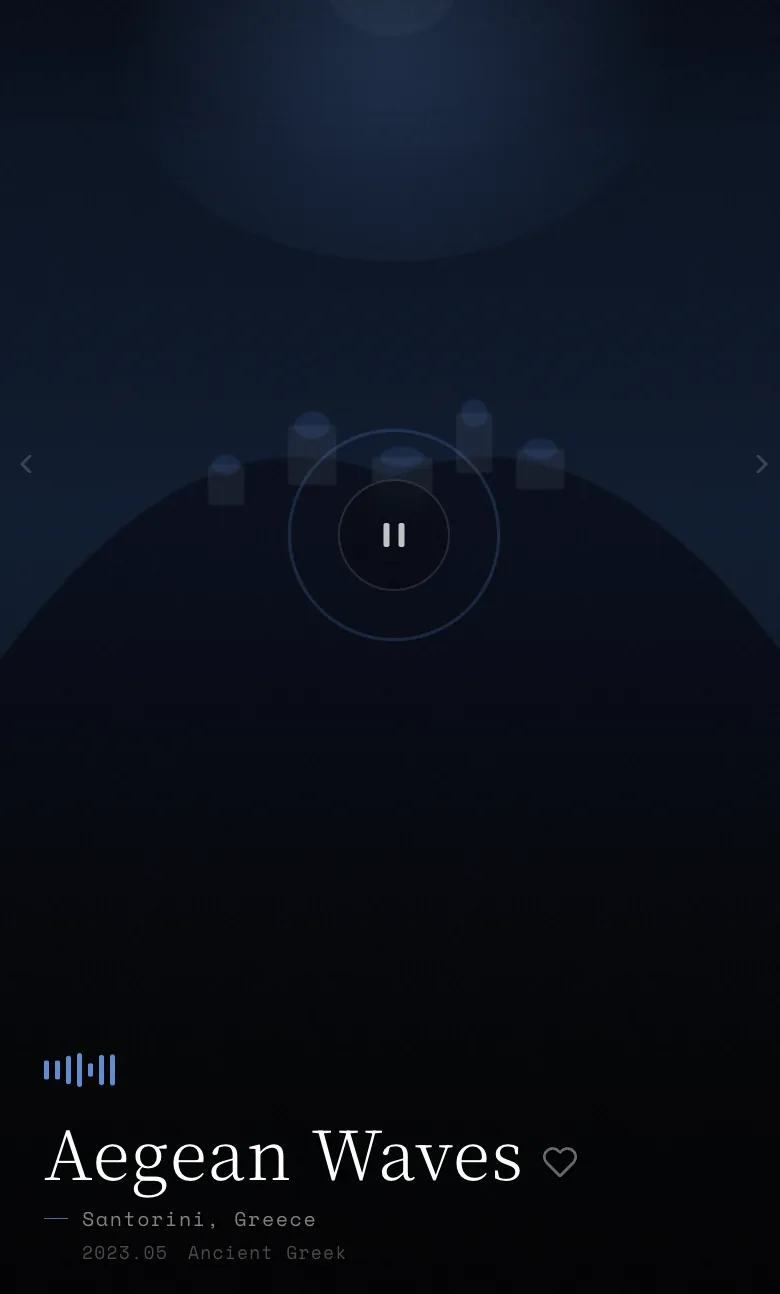
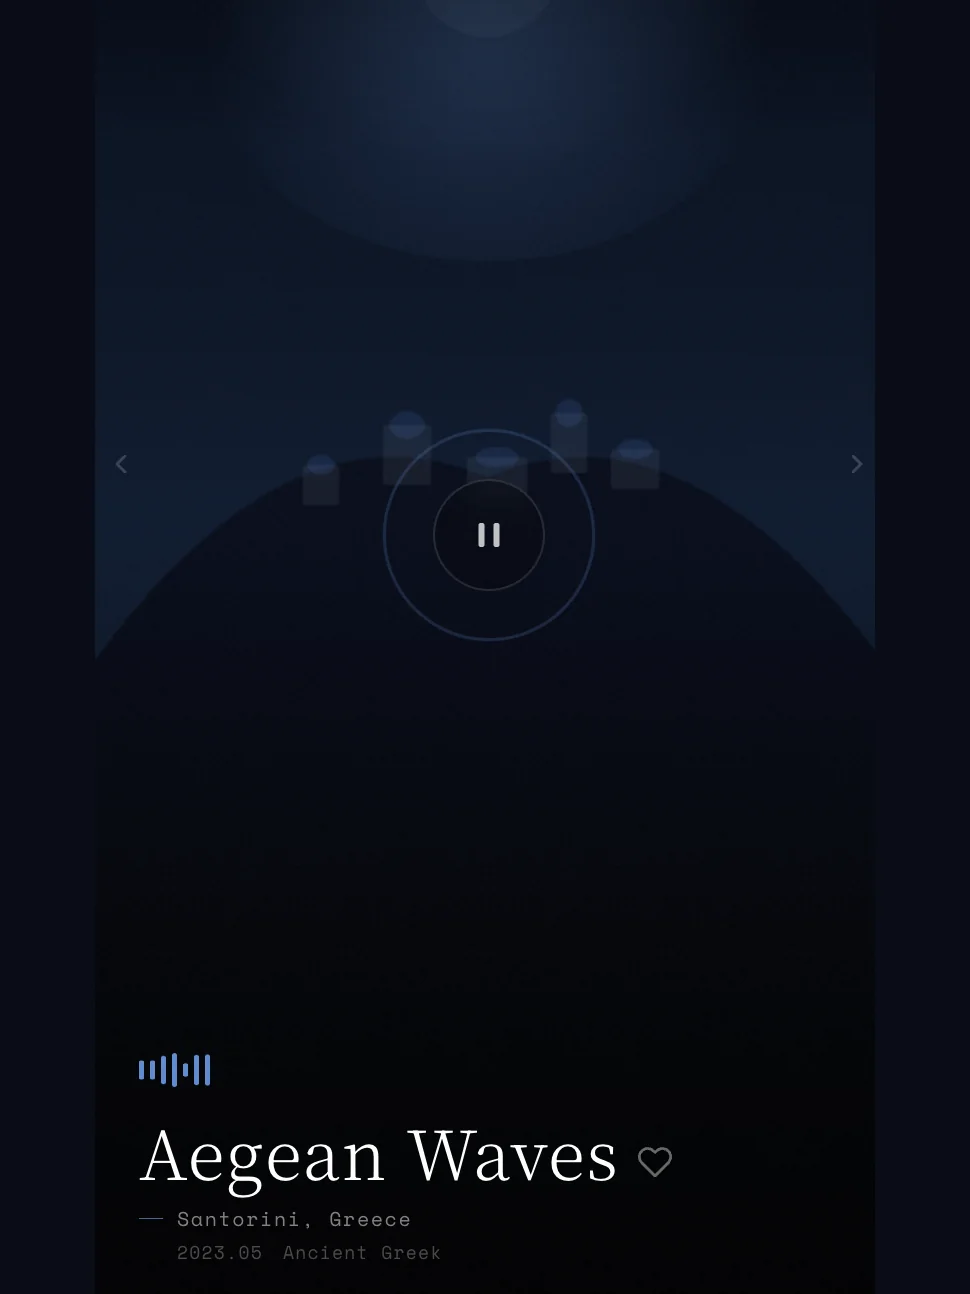
Update portfolio: Xiaomi case study, book pages, new assets

diff --git a/BooksKeep.html b/BooksKeep.html
@@ -201,9 +201,16 @@
         <main>
   <div class="page-container" data-context="page.page.container" data-hover-hint="pageContainer">
     <section class="page standard-modules">
-        <header class="page-header content" data-context="pages" data-identity="id:p68b4756cc4e90340d02c5defbc071e285a2749c7a5a0262b161bc" data-hover-hint="pageHeader" data-hover-hint-id="p68b4756cc4e90340d02c5defbc071e285a2749c7a5a0262b161bc">
-            <h1 class="title preserve-whitespace e2e-site-logo-text">Keep it Simple</h1>
-            <p class="description">Translated Hartmut Esslinger's account of the early years of Apple Design — the Frog years, the white plastic, the principles that became dogma.</p>
+        <header class="page-header content" data-context="pages" data-identity="id:p68b475074efe63d57bca953d3e780e98f265cb62db0b6d9bc93d0" data-hover-hint="pageHeader" data-hover-hint-id="p68b475074efe63d57bca953d3e780e98f265cb62db0b6d9bc93d0">
+            <h1 class="title preserve-whitespace e2e-site-logo-text">Keep It Simple</h1>
+            <p class="description"><em>Keep It Simple</em> is a book on Apple's early industrial design that I translated into Chinese at the invitation of Frog Design, on Apple's behalf.</p>
+            <p class="description">I took the project on while I was still a design evangelist at Microsoft. It dragged on for a long time, and I only finished and shipped it during an extended stretch of free time after I'd left.</p>
+            <p class="description">It's a book heavy on images, light on text — but the text isn't trivial. To translate it well you needed real depth on Apple's early devices, on the relationship between Frog Design and Steve Jobs, and on how Apple's product line evolved over time. There was no AI then; the only path was to already know the subject cold.</p>
+            <p class="description">Translating it left a deep mark on me. It hardened a conviction I've carried ever since: software does not exist apart from hardware. Only when hardware and software advance together — and become inseparable in practice — does the user receive the kind of quiet, invisible goodness we're really after.</p>
+            <p class="description">It was a deeply challenging project: my first real foray into industrial design, on a machine of significant scale. The work had to weave together mechanical transport for efficient ordering and pickup, while tying a large embedded touchscreen, a mobile app, and the physical hardware into one continuous flow.</p>
+            <p class="description">On the software side I built in a couple of less-obvious moves: pre-order pickup, where users pay in advance and simply scan to collect at the machine; and a priority-queue algorithm that handled flash-sale rushes — deciding pickup order fairly when multiple buyers were waiting at once.</p>
+            <p class="description">I built the brand from zero to one. Beyond brand, industrial design, software, and the hardware/software seam, the project also leaned on user research and behavior analysis — a genuinely cross-discipline build.</p>
+            <p class="description">The machines are now deployed at select locations in Beijing and at several airports across China.</p>
         </header>
       <div class="page-content js-page-content" data-context="pages" data-identity="id:p68b4756cc4e90340d02c5defbc071e285a2749c7a5a0262b161bc">
         <div id="project-canvas" class="js-project-modules modules content">

diff --git a/BooksDog.html b/BooksDog.html
@@ -1,4 +1,4 @@
-<!DOCTYPE html>
+      <!DOCTYPE html>
 <!-- saved from url=(0050)BooksDog.html -->
 <html lang="en-US" class="wf-clby-n4-active wf-clby-n7-active wf-ftnk-n3-active wf-ftnk-n4-active wf-ftnk-n7-active wf-active"><head><meta http-equiv="Content-Type" content="text/html; charset=UTF-8">
   
@@ -201,9 +201,15 @@
         <main>
   <div class="page-container" data-context="page.page.container" data-hover-hint="pageContainer">
     <section class="page standard-modules">
-        <header class="page-header content" data-context="pages" data-identity="id:p68b958efe2eb8e9d2625de3cec37de140d92f6576be8563e1e1f0" data-hover-hint="pageHeader" data-hover-hint-id="p68b958efe2eb8e9d2625de3cec37de140d92f6576be8563e1e1f0">
-            <h1 class="title preserve-whitespace e2e-site-logo-text">AI book: The World traveler's Dog</h1>
-            <p class="description">An AI children’s book — story drafted with ChatGPT, every illustration produced through hundreds of MidJourney iterations, then directed and edited by hand. Self-published on Amazon, early 2023.</p>
+        <header class="page-header content" data-context="pages" data-identity="id:p68b475074efe63d57bca953d3e780e98f265cb62db0b6d9bc93d0" data-hover-hint="pageHeader" data-hover-hint-id="p68b475074efe63d57bca953d3e780e98f265cb62db0b6d9bc93d0">
+            <h1 class="title preserve-whitespace e2e-site-logo-text">AI book: The World Traveler's Dog</h1>
+            <p class="description">Early 2023. ChatGPT and Midjourney had just appeared, and I had a thought: try to use these new tools to make a children's book — fast.</p>
+            <p class="description">I took our old family dog as the protagonist and a story I'd long wanted to write as the script, worked the storyboard out with ChatGPT, and let Midjourney generate the illustration for every page. Drawing on my prior self-publishing experience, I had it live on Amazon in just two days, and it picked up a small audience.</p>
+            <p class="description">Whatever you make of the result, it was — for early 2023 — an early end-to-end run from AI to a printed, shipped book. A workflow many others soon repeated.</p>
+            <p class="description">It was a deeply challenging project: my first real foray into industrial design, on a machine of significant scale. The work had to weave together mechanical transport for efficient ordering and pickup, while tying a large embedded touchscreen, a mobile app, and the physical hardware into one continuous flow.</p>
+            <p class="description">On the software side I built in a couple of less-obvious moves: pre-order pickup, where users pay in advance and simply scan to collect at the machine; and a priority-queue algorithm that handled flash-sale rushes — deciding pickup order fairly when multiple buyers were waiting at once.</p>
+            <p class="description">I built the brand from zero to one. Beyond brand, industrial design, software, and the hardware/software seam, the project also leaned on user research and behavior analysis — a genuinely cross-discipline build.</p>
+            <p class="description">The machines are now deployed at select locations in Beijing and at several airports across China.</p>
         </header>
       <div class="page-content js-page-content" data-context="pages" data-identity="id:p68b958efe2eb8e9d2625de3cec37de140d92f6576be8563e1e1f0">
         <div id="project-canvas" class="js-project-modules modules content">

diff --git a/BooksTaketime.html b/BooksTaketime.html
@@ -201,9 +201,15 @@
         <main>
   <div class="page-container" data-context="page.page.container" data-hover-hint="pageContainer">
     <section class="page standard-modules">
-        <header class="page-header content" data-context="pages" data-identity="id:p68b2f6d2c798f88db93b0c2122f3c852d4f7ff1c1a730389d97a1" data-hover-hint="pageHeader" data-hover-hint-id="p68b2f6d2c798f88db93b0c2122f3c852d4f7ff1c1a730389d97a1">
-            <h1 class="title preserve-whitespace e2e-site-logo-text">Take Time to waste your life</h1>
-            <p class="description">A photo book about the necessity of slowness. Years of frames that didn’t belong anywhere else, finally given a place.</p>
+        <header class="page-header content" data-context="pages" data-identity="id:p68b475074efe63d57bca953d3e780e98f265cb62db0b6d9bc93d0" data-hover-hint="pageHeader" data-hover-hint-id="p68b475074efe63d57bca953d3e780e98f265cb62db0b6d9bc93d0">
+            <h1 class="title preserve-whitespace e2e-site-logo-text">Take Time to Waste Your Life</h1>
+            <p class="description"><em>Take Time to Waste Your Life</em> (《把力气花在你想要的生活上》) is a book I wrote during the four off-work years after I left Microsoft. It sold very well in China.</p>
+            <p class="description">It's a collection of my own thinking on lifestyle, on quality of life, and on what it means to choose consumer products with intent. The core idea is unfashionable but honest: if you earn money, spend it — we're here to live, and that means moving toward a higher-quality way of being and toward objects made with care.</p>
+            <p class="description">The book hit a nerve during China's economic upswing and became a bestseller. It still pays me royalties today. Not everyone will connect with the theme, but for the world of 2017 when it came out, I believe it earned its place.</p>
+            <p class="description">It was a deeply challenging project: my first real foray into industrial design, on a machine of significant scale. The work had to weave together mechanical transport for efficient ordering and pickup, while tying a large embedded touchscreen, a mobile app, and the physical hardware into one continuous flow.</p>
+            <p class="description">On the software side I built in a couple of less-obvious moves: pre-order pickup, where users pay in advance and simply scan to collect at the machine; and a priority-queue algorithm that handled flash-sale rushes — deciding pickup order fairly when multiple buyers were waiting at once.</p>
+            <p class="description">I built the brand from zero to one. Beyond brand, industrial design, software, and the hardware/software seam, the project also leaned on user research and behavior analysis — a genuinely cross-discipline build.</p>
+            <p class="description">The machines are now deployed at select locations in Beijing and at several airports across China.</p>
         </header>
       <div class="page-content js-page-content" data-context="pages" data-identity="id:p68b2f6d2c798f88db93b0c2122f3c852d4f7ff1c1a730389d97a1">
         <div id="project-canvas" class="js-project-modules modules content">

diff --git a/BooksIceland.html b/BooksIceland.html
@@ -203,9 +203,15 @@
         <main>
   <div class="page-container" data-context="page.page.container" data-hover-hint="pageContainer">
     <section class="page standard-modules">
-        <header class="page-header content" data-context="pages" data-identity="id:p68b2f676b3f44eb8612a579900346a5773873b7d13cf8fb76d9e1" data-hover-hint="pageHeader" data-hover-hint-id="p68b2f676b3f44eb8612a579900346a5773873b7d13cf8fb76d9e1">
+        <header class="page-header content" data-context="pages" data-identity="id:p68b475074efe63d57bca953d3e780e98f265cb62db0b6d9bc93d0" data-hover-hint="pageHeader" data-hover-hint-id="p68b475074efe63d57bca953d3e780e98f265cb62db0b6d9bc93d0">
             <h1 class="title preserve-whitespace e2e-site-logo-text">Lost in Iceland</h1>
-            <p class="description">《环冰岛记》是我第一本得以出版的小说。</p>
+            <p class="description"><em>Lost in Iceland</em> was my first self-published novel — a quiet success in China when it came out in 2020.</p>
+            <p class="description">For me it was never only a novel. The whole book was a designed object: I was deeply involved in the cover's visual direction, and the illustrations inside — together with the hand-redrawn maps of the locations the story passes through — I made with a friend.</p>
+            <p class="description">So it's not just a piece of text. It's a work where design and illustration are inseparable from the writing. And the story itself is one I love — true to a stubborn belief of mine: write the book you'd want to read.</p>
+            <p class="description">It was a deeply challenging project: my first real foray into industrial design, on a machine of significant scale. The work had to weave together mechanical transport for efficient ordering and pickup, while tying a large embedded touchscreen, a mobile app, and the physical hardware into one continuous flow.</p>
+            <p class="description">On the software side I built in a couple of less-obvious moves: pre-order pickup, where users pay in advance and simply scan to collect at the machine; and a priority-queue algorithm that handled flash-sale rushes — deciding pickup order fairly when multiple buyers were waiting at once.</p>
+            <p class="description">I built the brand from zero to one. Beyond brand, industrial design, software, and the hardware/software seam, the project also leaned on user research and behavior analysis — a genuinely cross-discipline build.</p>
+            <p class="description">The machines are now deployed at select locations in Beijing and at several airports across China.</p>
         </header>
       <div class="page-content js-page-content" data-context="pages" data-identity="id:p68b2f676b3f44eb8612a579900346a5773873b7d13cf8fb76d9e1">
         <div id="project-canvas" class="js-project-modules modules content">

diff --git a/WorksXiaomi.html b/WorksXiaomi.html
@@ -203,14 +203,22 @@
     <section class="page standard-modules">
         <header class="page-header content" data-context="pages" data-identity="id:p68b2f6fb53a27cff813abf02e22d3ef793ffd60785d8f636d79b9" data-hover-hint="pageHeader" data-hover-hint-id="p68b2f6fb53a27cff813abf02e22d3ef793ffd60785d8f636d79b9">
             <h1 class="title preserve-whitespace e2e-site-logo-text">Xiaomi International</h1>
-            <p class="description">MIUI design and product work for Xiaomi's international markets. Detailed case studies coming soon.</p>
+            <p class="description">I led Xiaomi's international design team through a complete reinvention of the global edition of Xiaomi's mobile operating system.</p>
+            <p class="description">The scope went well beyond the core first-party apps. It included Xiaomi's in-house entertainment and social tools, the brand identities behind them, and a substantial body of design work for Xiaomi's international launches and campaign pages.</p>
         </header>
       <div class="page-content js-page-content" data-context="pages" data-identity="id:p68b2f6fb53a27cff813abf02e22d3ef793ffd60785d8f636d79b9">
         <div id="project-canvas" class="js-project-modules modules content">
           <div id="project-modules">
               <div class="project-module module image project-module-image js-js-project-module" style="padding-top: 40px; padding-bottom: 40px; max-width: 100%;">
                 <div class="js-lightbox">
-                  <img class="js-lazy" src="./assets/images/placeholder.svg" alt="Coming soon" style="width: 100%; height: auto; display: block;">
+                  <img class="js-lazy" src="./assets/images/miui1-web.webp" alt="Xiaomi International — MIUI" style="width: 100%; height: auto; display: block;">
+                </div>
+              </div>
+              <div class="project-module project-module-image js-js-project-module" style="padding-top: 40px; padding-bottom: 40px; max-width: 900px; margin-left: auto; margin-right: auto;">
+                <div style="display: flex; gap: 16px; align-items: flex-start;">
+                  <img class="js-lazy" src="./assets/images/xm2-web.webp" alt="Xiaomi International — MiTalk feed" style="flex: 1 1 0; min-width: 0; width: 33.333%; height: auto; display: block;">
+                  <img class="js-lazy" src="./assets/images/xm3-web.webp" alt="Xiaomi International — MiTalk post" style="flex: 1 1 0; min-width: 0; width: 33.333%; height: auto; display: block;">
+                  <img class="js-lazy" src="./assets/images/xm4-web.webp" alt="Xiaomi International — MiTalk thread" style="flex: 1 1 0; min-width: 0; width: 33.333%; height: auto; display: block;">
                 </div>
               </div>
 

diff --git a/WorksCuijian.html b/WorksCuijian.html
@@ -203,7 +203,9 @@
     <section class="page standard-modules">
         <header class="page-header content" data-context="pages" data-identity="id:p68baa96cc17a8f058faf3e2dccf2aba33d4aff3202ddca78981f2" data-hover-hint="pageHeader" data-hover-hint-id="p68baa96cc17a8f058faf3e2dccf2aba33d4aff3202ddca78981f2">
             <h1 class="title preserve-whitespace e2e-site-logo-text">Cuijian iOS App</h1>
-            <p class="description">An iOS app for China's No.1 Rock Star, designed with LogicDesign Studio in 2016. Cui Jian's only direction was a single image — “feet on the earth, eyes on the stars” — and we built it into the app's gyroscope-driven 3D navigation.</p>
+            <p class="description">In 2016 I was invited, as a design consultant, to design the personal iOS app for Cui Jian — the godfather of Chinese rock.</p>
+            <p class="description">His brief was deceptively simple: <em>feet on the yellow earth, eyes on the stars.</em></p>
+            <p class="description">Building from that single line — and from his musical voice, the personality of his then-new album <em>Light&middot;Frozen</em>, and my own long relationship with his work — I leaned on the phone's hardware, the gyroscope above all, to make three gestures the spine of the app: walking with the phone unveils different scenes around you in 360°; raising it fills the screen with a vast field of stars; lowering it plants your own feet firmly on the yellow earth.</p>
         </header>
       <div class="page-content js-page-content" data-context="pages" data-identity="id:p68baa96cc17a8f058faf3e2dccf2aba33d4aff3202ddca78981f2">
         <div id="project-canvas" class="js-project-modules modules content">
@@ -213,9 +215,6 @@
               
               
               
-              <div class="project-module module text project-module-text align- js-project-module e2e-site-project-module-text">
-  <div class="rich-text js-text-editable module-text"><div style="text-align:left;">I'm so honored to design an app for the No.1 Rock Star in China with LogicDesign Studio together in 2016. About design, Cui Jian gave us a single creative cue—“feet on the earth, eyes on the stars”—and otherwise did not intervene in the design. We built the app’s entire navigation with 3D panoramic technology and the phone’s gyroscope, so users can simply turn their bodies while holding the phone to viscerally experience “feet on the earth, gazing at the stars.” The concept was approved in one pass, and Cui Jian was delighted; the feel aligns perfectly with his new album “Guang Dong (《光冻》)”.</div></div>
-</div>
 
               
               

diff --git a/WorksMonster.html b/WorksMonster.html
@@ -203,7 +203,11 @@
     <section class="page standard-modules">
         <header class="page-header content" data-context="pages" data-identity="id:p68b475074efe63d57bca953d3e780e98f265cb62db0b6d9bc93d0" data-hover-hint="pageHeader" data-hover-hint-id="p68b475074efe63d57bca953d3e780e98f265cb62db0b6d9bc93d0">
             <h1 class="title preserve-whitespace e2e-site-logo-text">Monster Vending</h1>
-            <p class="description">A vending machine concept where every drink is a tiny monster. Brand identity, machine wrap, and a small line of merchandise that pretends very seriously to be friendly.</p>
+            <p class="description">Between 2016 and 2018 I designed Monster Vending end to end — brand identity, the physical machine, and the full vending experience around it.</p>
+            <p class="description">It was a deeply challenging project: my first real foray into industrial design, on a machine of significant scale. The work had to weave together mechanical transport for efficient ordering and pickup, while tying a large embedded touchscreen, a mobile app, and the physical hardware into one continuous flow.</p>
+            <p class="description">On the software side I built in a couple of less-obvious moves: pre-order pickup, where users pay in advance and simply scan to collect at the machine; and a priority-queue algorithm that handled flash-sale rushes — deciding pickup order fairly when multiple buyers were waiting at once.</p>
+            <p class="description">I built the brand from zero to one. Beyond brand, industrial design, software, and the hardware/software seam, the project also leaned on user research and behavior analysis — a genuinely cross-discipline build.</p>
+            <p class="description">The machines are now deployed at select locations in Beijing and at several airports across China.</p>
         </header>
       <div class="page-content js-page-content" data-context="pages" data-identity="id:p68b475074efe63d57bca953d3e780e98f265cb62db0b6d9bc93d0">
         <div id="project-canvas" class="js-project-modules modules content">

diff --git a/worksmicrosoft.html b/worksmicrosoft.html
@@ -213,6 +213,21 @@
                   <img class="js-lazy" src="./assets/images/m1-web.webp" alt="Microsoft work — m1" style="width: 100%; height: auto; display: block;">
                 </div>
               </div>
+                            <div class="project-module module image project-module-image js-js-project-module" style="padding-top: 40px; padding-bottom: 40px; max-width: 100%;">
+                <div class="js-lightbox">
+                  <img class="js-lazy" src="./assets/images/m2.png" alt="Microsoft work — m2" style="width: 100%; height: auto; display: block;">
+                </div>
+              </div>
+                            <div class="project-module module image project-module-image js-js-project-module" style="padding-top: 40px; padding-bottom: 40px; max-width: 100%;">
+                <div class="js-lightbox">
+                  <img class="js-lazy" src="./assets/images/m6.png" alt="Microsoft work — m6" style="width: 100%; height: auto; display: block;">
+                </div>
+              </div>
+                            <div class="project-module module image project-module-image js-js-project-module" style="padding-top: 40px; padding-bottom: 40px; max-width: 100%;">
+                <div class="js-lightbox">
+                  <img class="js-lazy" src="./assets/images/m7.png" alt="Microsoft work — m7" style="width: 100%; height: auto; display: block;">
+                </div>
+              </div>
               <div class="project-module module image project-module-image js-js-project-module" style="padding-top: 40px; padding-bottom: 40px; max-width: 100%;">
                 <div class="js-lightbox">
                   <img class="js-lazy" src="./assets/images/m3-web.webp" alt="Microsoft work — m3" style="width: 100%; height: auto; display: block;">

diff --git a/WorksD20.html b/WorksD20.html
@@ -203,7 +203,8 @@
     <section class="page standard-modules">
         <header class="page-header content" data-context="pages" data-identity="id:p68b2f6fb53a27cff813abf02e22d3ef793ffd60785d8f636d79b9" data-hover-hint="pageHeader" data-hover-hint-id="p68b2f6fb53a27cff813abf02e22d3ef793ffd60785d8f636d79b9">
             <h1 class="title preserve-whitespace e2e-site-logo-text">D20 Exhibition</h1>
-            <p class="description">Booth and exhibition design for the D20 — a retrospective of two decades of design practice.</p>
+            <p class="description">In the summer of 2025, I led the Lazada design team to Alibaba Group's D20 exhibition.</p>
+            <p class="description">On a very short timeline and a very modest budget, we built what turned out to be the most visually striking booth of the entire show — translating the texture of Southeast Asian shopping behavior, culture, and everyday habits in a way that resonated with both Alibaba leadership and visiting guests.</p>
         </header>
       <div class="page-content js-page-content" data-context="pages" data-identity="id:p68b2f6fb53a27cff813abf02e22d3ef793ffd60785d8f636d79b9">
         <div id="project-canvas" class="js-project-modules modules content">
